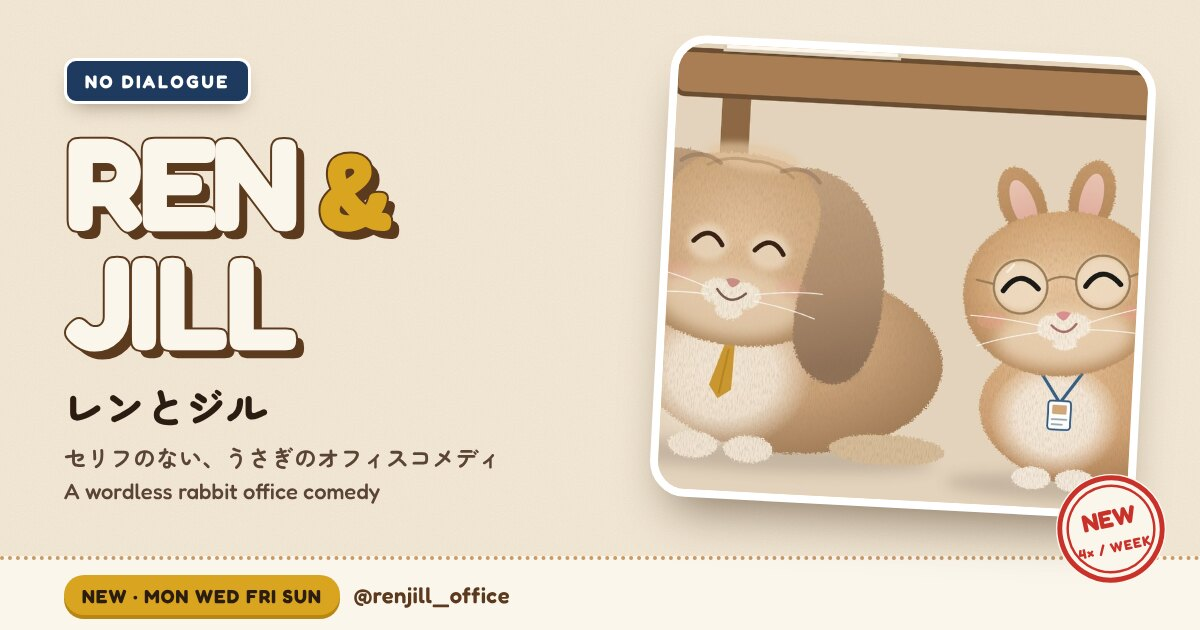
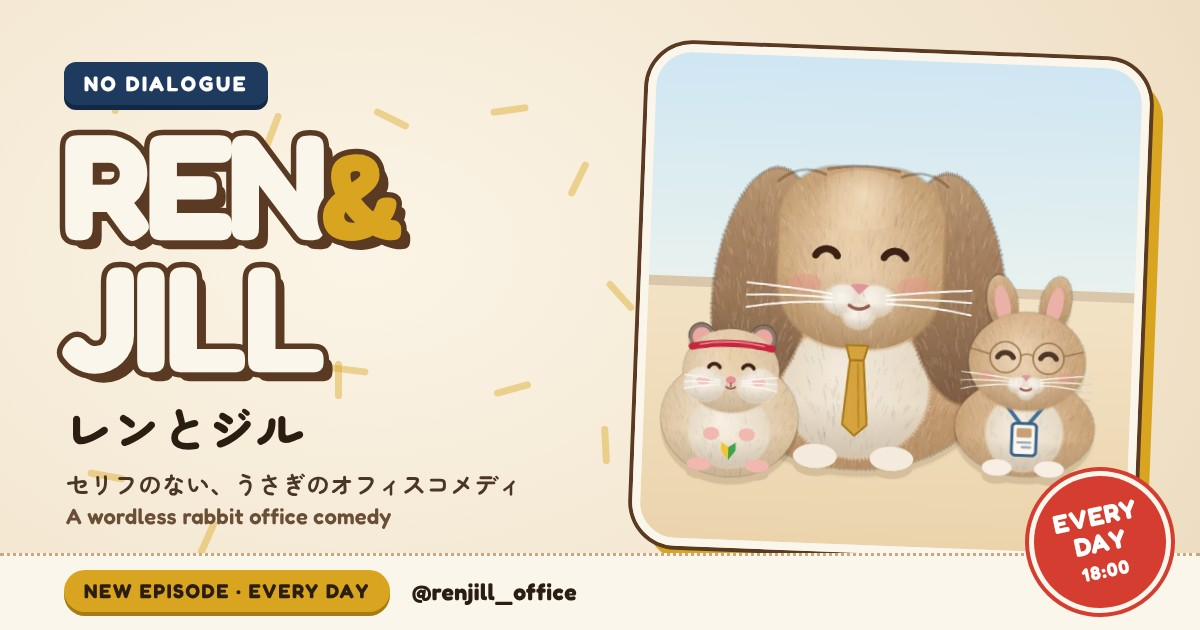
エピソードの札・週の帯・終わりの部分・共有用の画像を見直す
- スマホの札：シェアは表紙の右上に 1 つ、説明は 2 行まで
- 週の帯：「18:00 毎日、新作」と曜日＋再生の印
- 終わりの部分に、お見送りの 3 人
- 色の変わり目を丸い波に
- 共有用の画像：古い「週4回」を「毎日 18:00」に、3 人とも新しい絵で（作り方を tools/make_og.mjs に）
- 検査に 53 番を追加／今回のブラッシュアップの記録 docs/POLISH-2026-11-15.md

Claude-Session: https://claude.ai/code/session_01KYhWQVkUVFVXPun7Dy396r

diff --git a/index.html b/index.html
@@ -292,6 +292,10 @@ body:not(.lang-en) .tape-track span { font-family: var(--f-jp); font-weight: 900
 
 /* ═══════ A DAY (horizontal) ═══════ */
 .day { background: var(--navy); color: var(--paper); overflow-x: hidden; }
+/* 色の変わり目を、まっすぐな線ではなく、紙を切ったような丸い波に */
+.day, .game { position: relative; }
+.day::before, .day::after, .game::before, .game::after { content: ""; position: absolute; left: 0; right: 0; height: 13px; z-index: 2; pointer-events: none; background: radial-gradient(circle at 13px 0, var(--cream) 12.4px, transparent 13px) 0 0 / 26px 13px repeat-x; }
+.day::before, .game::before { top: -1px; } .day::after, .game::after { bottom: -1px; transform: scaleY(-1); }
 @supports (overflow: clip) { .day { overflow-x: clip; overflow-y: visible; } }
 .day .sec-no { color: var(--mustard); -webkit-text-stroke-color: var(--paper); }
 .day .sec-head { border-bottom-color: rgba(255, 255, 255, .5); }
@@ -444,12 +448,23 @@ body.lang-en .faq-i summary { font-family: var(--f-en); font-weight: 700; }
 .sched li.on { background: var(--mustard); }
 .sched li em { font: 900 11px/1 var(--f-jp); font-style: normal; opacity: .75; }
 .sched li.on em { opacity: 1; }
+.sched li::after { content: ""; justify-self: center; width: 0; height: 0; border-left: 8px solid var(--ink); border-top: 5px solid transparent; border-bottom: 5px solid transparent; opacity: .8; }
+.sched-k { margin: 44px 0 0; font: 900 15px/1.4 var(--f-jp); display: flex; align-items: baseline; gap: 10px; }
+.sched-k b { font: 700 clamp(22px, 3vw, 30px)/1 var(--f-en); letter-spacing: -.01em; color: var(--stamp); }
+.sched-k + .sched { margin-top: 14px; }
+body.lang-en .sched li em { display: none; }
 @media (max-width: 640px) { .sns-row { grid-template-columns: 44px 1fr 28px; } .sns-handle { display: none; } .sns-row .arr { width: 28px; height: 28px; } .sched { gap: 5px; } .sched li { padding: 10px 0 8px; font-size: 12px; } }
 
 /* ═══════ FOOTER ═══════ */
 .ftr { padding: 60px 0 calc(40px + env(safe-area-inset-bottom)); border-top: var(--line); background: var(--paper-2); }
 .ftr-in { display: flex; flex-wrap: wrap; gap: 20px 40px; align-items: center; justify-content: space-between; }
 .ftr-big { font: 700 clamp(40px, 7vw, 110px)/1 var(--f-en); letter-spacing: -.04em; margin: 0 0 30px; color: var(--ink); }
+/* お見送りの 3 人（ゲーム・アニメと同じ絵） */
+.ftr-crew { display: flex; align-items: flex-end; gap: clamp(2px, 1vw, 12px); margin: 0 0 clamp(4px, 1vw, 12px) -6px; height: clamp(110px, 17vw, 190px); }
+.ftr-crew img { height: 100%; width: auto; filter: drop-shadow(0 6px 0 rgba(43, 29, 18, .13)); transform-origin: 50% 100%; }
+.ftr-crew .c-pom { height: 62%; } .ftr-crew .c-jill { height: 72%; }
+@media (prefers-reduced-motion: no-preference) { .ftr-crew.in img { animation: crewSway 3.4s ease-in-out infinite; } .ftr-crew.in .c-ren { animation-delay: .5s; } .ftr-crew.in .c-jill { animation-delay: 1s; } }
+@keyframes crewSway { 0%, 100% { transform: rotate(-2.2deg); } 50% { transform: rotate(2.2deg) translateY(-2px); } }
 .ftr-big span { color: var(--mustard); -webkit-text-stroke: 3px var(--ink); paint-order: stroke fill; }
 .ftr small { font-family: var(--f-mono); font-size: 11.5px; letter-spacing: .1em; }
 .ftr a.u { text-decoration: underline; text-underline-offset: 4px; }
@@ -847,6 +862,16 @@ body:not(.lang-en) .shb .lbl { font-family: var(--f-jp); font-weight: 900; }
 .ep-share .shb svg { width: 14px; height: 14px; }
 .ep-share-k { margin-right: 2px; color: var(--fur-d); display: inline-flex; }
 .ep-share-k svg { width: 16px; height: 16px; }
+.ep-one { display: none; }
+@media (max-width: 640px) { .pshare .share-row:has(.more) .shb:not(.more):not(.copy) { display: none; } .pshare .share-row:has(.more) .shb { flex: 1 1 0; justify-content: center; } }
+@media (max-width: 640px) {
+  .ep-cap { display: -webkit-box; -webkit-line-clamp: 2; -webkit-box-orient: vertical; overflow: hidden; }
+  .ep-share:has(.ep-one) { position: absolute; top: 8px; right: 8px; z-index: 3; padding: 0; }
+  .ep-share:has(.ep-one) .shb:not(.ep-one) { display: none; }
+  .ep-share .shb.ep-one { display: inline-flex; align-items: center; justify-content: center; flex: none; width: 40px; height: 40px; min-width: 40px; padding: 0; border-radius: 50%; background: rgba(251, 246, 236, .94); box-shadow: 0 3px 0 rgba(43, 29, 18, .22); }
+  .ep-share .shb.ep-one svg { width: 17px; height: 17px; }
+  .ep:has(.ep-one) .ep-body { padding-bottom: 14px; }
+}
 @media (max-width: 640px) { .ep-share { padding: 0 10px 12px; gap: 4px; flex-wrap: nowrap; } .ep-share .shb { flex: 1 1 auto; height: 40px; min-width: 0; padding: 0 4px; font-size: 12px; letter-spacing: 0; } .ep-share .shb.line { flex-grow: 1.4; } .ep-share-k { display: none; } }
 .ep.hl { animation: ep-hl 1.2s var(--ease) 3; }
 @keyframes ep-hl { 0%, 100% { box-shadow: var(--shadow); } 50% { box-shadow: 0 0 0 6px var(--mustard), var(--shadow-lg); } }
@@ -1242,8 +1267,9 @@ body.fbar-on .ftr { padding-bottom: calc(150px + env(safe-area-inset-bottom)); }
       <li><a class="sns-row" style="--bg:#1877F2;--fg:#fff" href="https://www.facebook.com/1358515160686321" target="_blank" rel="noopener"><span class="ic"><svg viewBox="0 0 24 24" fill="#2B1D12"><path d="M13.5 22v-8h2.7l.4-3.2h-3.1V8.8c0-.9.3-1.5 1.6-1.5h1.7V4.4c-.3 0-1.3-.1-2.5-.1-2.5 0-4.1 1.5-4.1 4.2v2.3H7.4V14h2.8v8h3.3Z"/></svg></span><span class="sns-name">Facebook<small data-t="sns.fb">ページをフォロー</small></span><span class="sns-handle">Ren &amp; Jill</span><svg class="arr" viewBox="0 0 24 24" fill="none" stroke="currentColor" stroke-width="2.4" stroke-linecap="round" stroke-linejoin="round"><path d="M5 12h14M13 6l6 6-6 6"/></svg></a></li>
       <li><a class="sns-row" style="--bg:#D9A520;--fg:#2B1D12" href="https://hay-dash.coana.co.jp/" target="_blank" rel="noopener"><span class="ic"><svg viewBox="0 0 24 24" fill="none" stroke="#2B1D12" stroke-width="2.2" stroke-linecap="round" stroke-linejoin="round"><rect x="2" y="7" width="20" height="11" rx="4"/><path d="M7 12h4M9 10v4M15 11h.01M18 13h.01"/></svg></span><span class="sns-name">Hay Dash<small data-t="sns.game">チモシーダッシュ · ブラウザで無料</small></span><span class="sns-handle">hay-dash.coana.co.jp</span><svg class="arr" viewBox="0 0 24 24" fill="none" stroke="currentColor" stroke-width="2.4" stroke-linecap="round" stroke-linejoin="round"><path d="M5 12h14M13 6l6 6-6 6"/></svg></a></li>
     </ul>
+    <p class="sched-k rv"><b>18:00</b><span data-t="sched.k">毎日、新作が出ます</span></p>
     <ul class="sched rv" id="sched" aria-label="新作は毎日（月〜日）" data-ta="a.sched">
-      <li class="on">MON<em data-t="d.mon">月 · 新作</em></li><li class="on">TUE<em data-t="d.tue">火 · 新作</em></li><li class="on">WED<em data-t="d.wed">水 · 新作</em></li><li class="on">THU<em data-t="d.thu">木 · 新作</em></li><li class="on">FRI<em data-t="d.fri">金 · 新作</em></li><li class="on">SAT<em data-t="d.sat">土 · 新作</em></li><li class="on">SUN<em data-t="d.sun">日 · 新作</em></li>
+      <li class="on">MON<em data-t="d.mon">月</em></li><li class="on">TUE<em data-t="d.tue">火</em></li><li class="on">WED<em data-t="d.wed">水</em></li><li class="on">THU<em data-t="d.thu">木</em></li><li class="on">FRI<em data-t="d.fri">金</em></li><li class="on">SAT<em data-t="d.sat">土</em></li><li class="on">SUN<em data-t="d.sun">日</em></li>
     </ul>
     <div class="pshare rv" role="group" aria-labelledby="pshareTtl">
       <p class="pshare-ttl" id="pshareTtl"><span data-t="ps.ttl">このページをシェア</span><small data-t="ps.lead">友だちにも、ちょっと平和をおすそ分け。</small></p>
@@ -1272,6 +1298,7 @@ body.fbar-on .ftr { padding-bottom: calc(150px + env(safe-area-inset-bottom)); }
 
 <footer class="ftr">
   <div class="wrap">
+    <div class="ftr-crew rv" aria-hidden="true"><img class="c-pom" src="img/char/pom_happy.webp" width="600" height="600" alt="" loading="lazy" decoding="async"><img class="c-ren" src="img/char/ren_happy.webp" width="600" height="600" alt="" loading="lazy" decoding="async"><img class="c-jill" src="img/char/jill_happy.webp" width="600" height="600" alt="" loading="lazy" decoding="async"></div>
     <p class="ftr-big rv" translate="no">SEE YOU AT <span>6 PM.</span></p>
     <nav class="ftr-follow" aria-label="SNS" data-ta="a.follow"><span class="ftr-follow-k" data-t="ff.k">フォローする</span><div class="sns-ics" data-sns="footer"></div></nav>
     <nav aria-label="このページの中" data-ta="fn.k"><ul class="ftr-nav"><li><a href="#characters" data-t="fn.chars">キャラクター</a></li><li><a href="#day" data-t="fn.day">ある一日</a></li><li><a href="#episodes" data-t="fn.eps">エピソード</a></li><li><a href="#game" data-t="fn.game">ゲーム</a></li><li><a href="#follow" data-t="fn.follow">フォロー</a></li><li><a href="#faq" data-t="fn.faq">よくある質問</a></li></ul></nav>
@@ -2140,6 +2167,12 @@ const T = {
 "遊戲畫面：山手線",
 "게임 화면: 야마노테선"
 ],
+"sched.k": [
+"毎日、新作が出ます",
+"A new episode, every day (JST)",
+"每天都有新片（日本時間）",
+"매일 신작이 올라와요 (일본 시간)"
+],
 "game.alt": [
 "「レンとジルのチモシーダッシュ」のゲーム画面",
 "Screenshot of Ren & Jill: Hay Dash",
@@ -2267,46 +2300,46 @@ const T = {
 "게임 · 브라우저에서 무료"
 ],
 "d.mon": [
-"月 · 新作",
-"new",
-"一 · 新片",
-"월 · 신작"
+"月",
+"Mon",
+"一",
+"월"
 ],
 "d.tue": [
-"火 · 新作",
-"new",
-"二 · 新片",
-"화 · 신작"
+"火",
+"Tue",
+"二",
+"화"
 ],
 "d.wed": [
-"水 · 新作",
-"new",
-"三 · 新片",
-"수 · 신작"
+"水",
+"Wed",
+"三",
+"수"
 ],
 "d.thu": [
-"木 · 新作",
-"new",
-"四 · 新片",
-"목 · 신작"
+"木",
+"Thu",
+"四",
+"목"
 ],
 "d.fri": [
-"金 · 新作",
-"new",
-"五 · 新片",
-"금 · 신작"
+"金",
+"Fri",
+"五",
+"금"
 ],
 "d.sat": [
-"土 · 新作",
-"new",
-"六 · 新片",
-"토 · 신작"
+"土",
+"Sat",
+"六",
+"토"
 ],
 "d.sun": [
-"日 · 新作",
-"new",
-"日 · 新片",
-"일 · 신작"
+"日",
+"Sun",
+"日",
+"일"
 ],
 "ch.lead.touch": [
 "カードを押すと、プロフィールが見られます。",
@@ -2914,6 +2947,7 @@ function shareLinks(e, small) {
     + a("fb", `https://www.facebook.com/sharer/sharer.php?u=${enc(shareUrl(e ? "fb_ep" : "fb", ep))}`, small ? "FB" : "Facebook", on("Facebook"))
     + (small ? "" : a("th", `https://www.threads.net/intent/post?text=${enc(text + " " + shareUrl(e ? "threads_ep" : "threads", ep))}`, "Threads", on("Threads")))
     + `<button class="shb copy" type="button" data-copy="${esc(shareUrl(e ? "copy_ep" : "copy", ep))}" aria-label="${esc(t("sh.copy"))}">${ICON.link}${small ? "" : `<span class="lbl">${esc(t(e ? "sh.copyS" : "sh.copy"))}</span>`}</button>`;
+  if (small && navigator.share) out += `<button class="shb more ep-one" type="button" data-native="${esc(shareUrl("native_ep", ep))}" data-text="${esc(text)}" aria-label="${esc(t("sh.ep").replace("{t}", tt))}">${ICON.share}</button>`;
   if (!small && navigator.share) out += `<button class="shb more" type="button" data-native="${esc(shareUrl(e ? "native_ep" : "native", ep))}" data-text="${esc(text)}">${ICON.share}<span class="lbl">${esc(t("sh.more"))}</span></button>`;
   return out;
 }

diff --git a/docs/POLISH-2026-11-15.md b/docs/POLISH-2026-11-15.md
@@ -1,0 +1,63 @@
+# 公式サイトのブラッシュアップ（2026-11-15〜）
+
+オーナーの指示：「今回の品質アップ、アニメーションやデザインのプロフェッショナル化に応じて LP もブラッシュアップ。根本的に見直してもよい。200 以上」。
+
+**数え方**：見た人が気づく変化を 1 つと数える（同じ直しを 4 言語でやっても 1 つ。水増ししない）。
+目標 200 に対して、いまの実数はこの一覧の最後の番号。
+
+## 1. 絵をアニメ・ゲームと同じにそろえる（線画をやめる）
+1. キャラクター紹介：レンの絵を、平たい線画からゲームと同じ描き方の絵に
+2. 同：ジル
+3. 同：ポム
+4. 3 人のまばたき（数秒おき・ばらばらのタイミング）
+5. カードに触れる／押すと笑顔になる
+6. 押したとき、ぴょんと跳ねる
+7. 関係の図の 3 人を同じ絵に
+8. 関係のカードの小さな顔（8 か所）を同じ絵に
+9. 説明文を今の動きに合わせる（「目がカーソルを追う」→「押すとプロフィール」）
+10. 検査 51 番：絵が 3 人分読み込めている・枠からはみ出さない・古い線画に戻らない
+
+## 2. ゲームの紹介を作り直す
+11. アプリのアイコン（新しいもの）を題名の横に
+12. 題名「HAY DASH!」を 1 行に
+13. 説明を 1 文に（4 言語）
+14. 見出しの下の説明を短く
+15. 「ゲームの新しいこと」の 4 行の文 → ひとことの札（無料・インストールなし・4つの言語・つづきから再開）
+16. 「つづきから再開」を新しく案内（11/15 にゲームへ入れた機能）
+17. REN・JILL・POM の札に本物の顔
+18. 本物のゲーム画面 6 枚の列（浅草・新宿御苑・お台場・銀座・渋谷・山手線）
+19. 「100+ の東京を走る」の数字
+20. 画面ごとの場所の名前（4 言語）
+21. 画面の列：少しずつ傾けて並べ、触れると持ち上がる
+22. クリスマスの案内（期間中だけ）を赤い札に
+23. PC では 6 枚がちょうど収まる／スマホでは横に動かせる
+24. 検査 52 番：ゲーム画面 6 枚とアイコンが読み込めている・切れない
+
+## 3. 最初の画面
+25. スマホ：題名の右にレンとジル（今までは下へ動かさないとキャラクターが見えなかった）
+26. 2 人のまばたき・ゆっくりした上下
+27. 2 人が、題名のあとにふわっと出てくる
+28. 説明を 1 文に（4 言語）
+29. 検査 52 番：2 人が題名や上の行に重ならない・小さすぎない
+
+## 4. 「オフィスの、ある一日」
+30. 9 枚の札の線画を、その回のアニメの 1 コマに（ジルの朝・会議の5分前・カメラオフ会議・ハンコ・書類の山・マグカップ・領収書・締め切り・定時）
+31. 絵に触れると少し寄る
+32. 札の並びを「絵 → 時刻 → 題 → 一言」に
+
+## 5. 文字を減らす
+33. キャラクター 3 人の説明を 1〜2 文に（4 言語）
+34. 関係の 4 枚の説明を 1 文に（4 言語）
+35. フォローの案内を短く（4 言語）
+
+## 6. エピソードの札・週の帯・終わりの部分
+36. スマホ：札ごとのシェアのボタン 4 つ → 表紙の右上に 1 つ（スマホの共有の画面が開く）
+37. スマホ：札の説明を 2 行まで（一覧が見やすい。全文は押すと見られる）
+38. 週の帯：「18:00　毎日、新作が出ます」と時刻をはっきり
+39. 週の帯：「月・新作」を 7 回くり返す → 曜日と小さな再生の印
+40. スマホ：ページのシェアを「共有」と「リンクをコピー」の 2 つに
+41. 終わりの部分に、お見送りの 3 人（笑顔・ゆっくり揺れる）
+42. 色の変わり目（紺・こげ茶の部分の上下）を、まっすぐな線から、紙を切ったような丸い波に
+43. 共有用の画像（og.jpg）を作り直し：古い「月・水・金・日／週4回」→「毎日 18:00」、3 人とも新しい絵で（ポムがいなかった）
+44. 共有用の画像の作り方を道具にした（tools/make_og.mjs。事実が変わったら作り直せる）
+45. 検査 53 番：スマホの札のボタンは 1 つ・説明は 2 行まで・週の帯の時刻・お見送りの 3 人・共有用の画像に古い曜日がない

diff --git a/qa/reports/b3.md b/qa/reports/b3.md
@@ -1,6 +1,6 @@
-# 検査 b2（2026-11-14T23:19:40.318Z）
-画面 7 × 言語 4 ＋ 動きを減らす・保存・取得失敗・動画 = 32 通り／検査項目 52
-合格 52・不合格 0
+# 検査 b3（2026-11-15T00:10:28.455Z）
+画面 7 × 言語 4 ＋ 動きを減らす・保存・取得失敗・動画 = 32 通り／検査項目 53
+合格 53・不合格 0
 
 OK  1 title の長さ（15〜70文字）
 OK  2 meta description（50〜160文字）
@@ -54,3 +54,4 @@ OK 49 canonical/hreflang が言語の切り替え後も正しい
 OK 50 ページの重さ（HTML 400KB 以下）
 OK 51 キャラクターの絵がアニメ・ゲームと同じ絵で、3 人とも読み込めている（平たい線画に戻っていない）
 OK 52 ゲームの紹介：本物のゲーム画面 6 枚とアイコンが読み込めている／スマホの最初の画面に 2 人がいて、題名や上の行に重ならない
+OK 53 スマホのエピソード：シェアのボタンは 1 つ・説明は 2 行まで／週の帯に「18:00」／お見送りの 3 人が読み込めている／共有用の画像の作り方に古い曜日が残っていない
